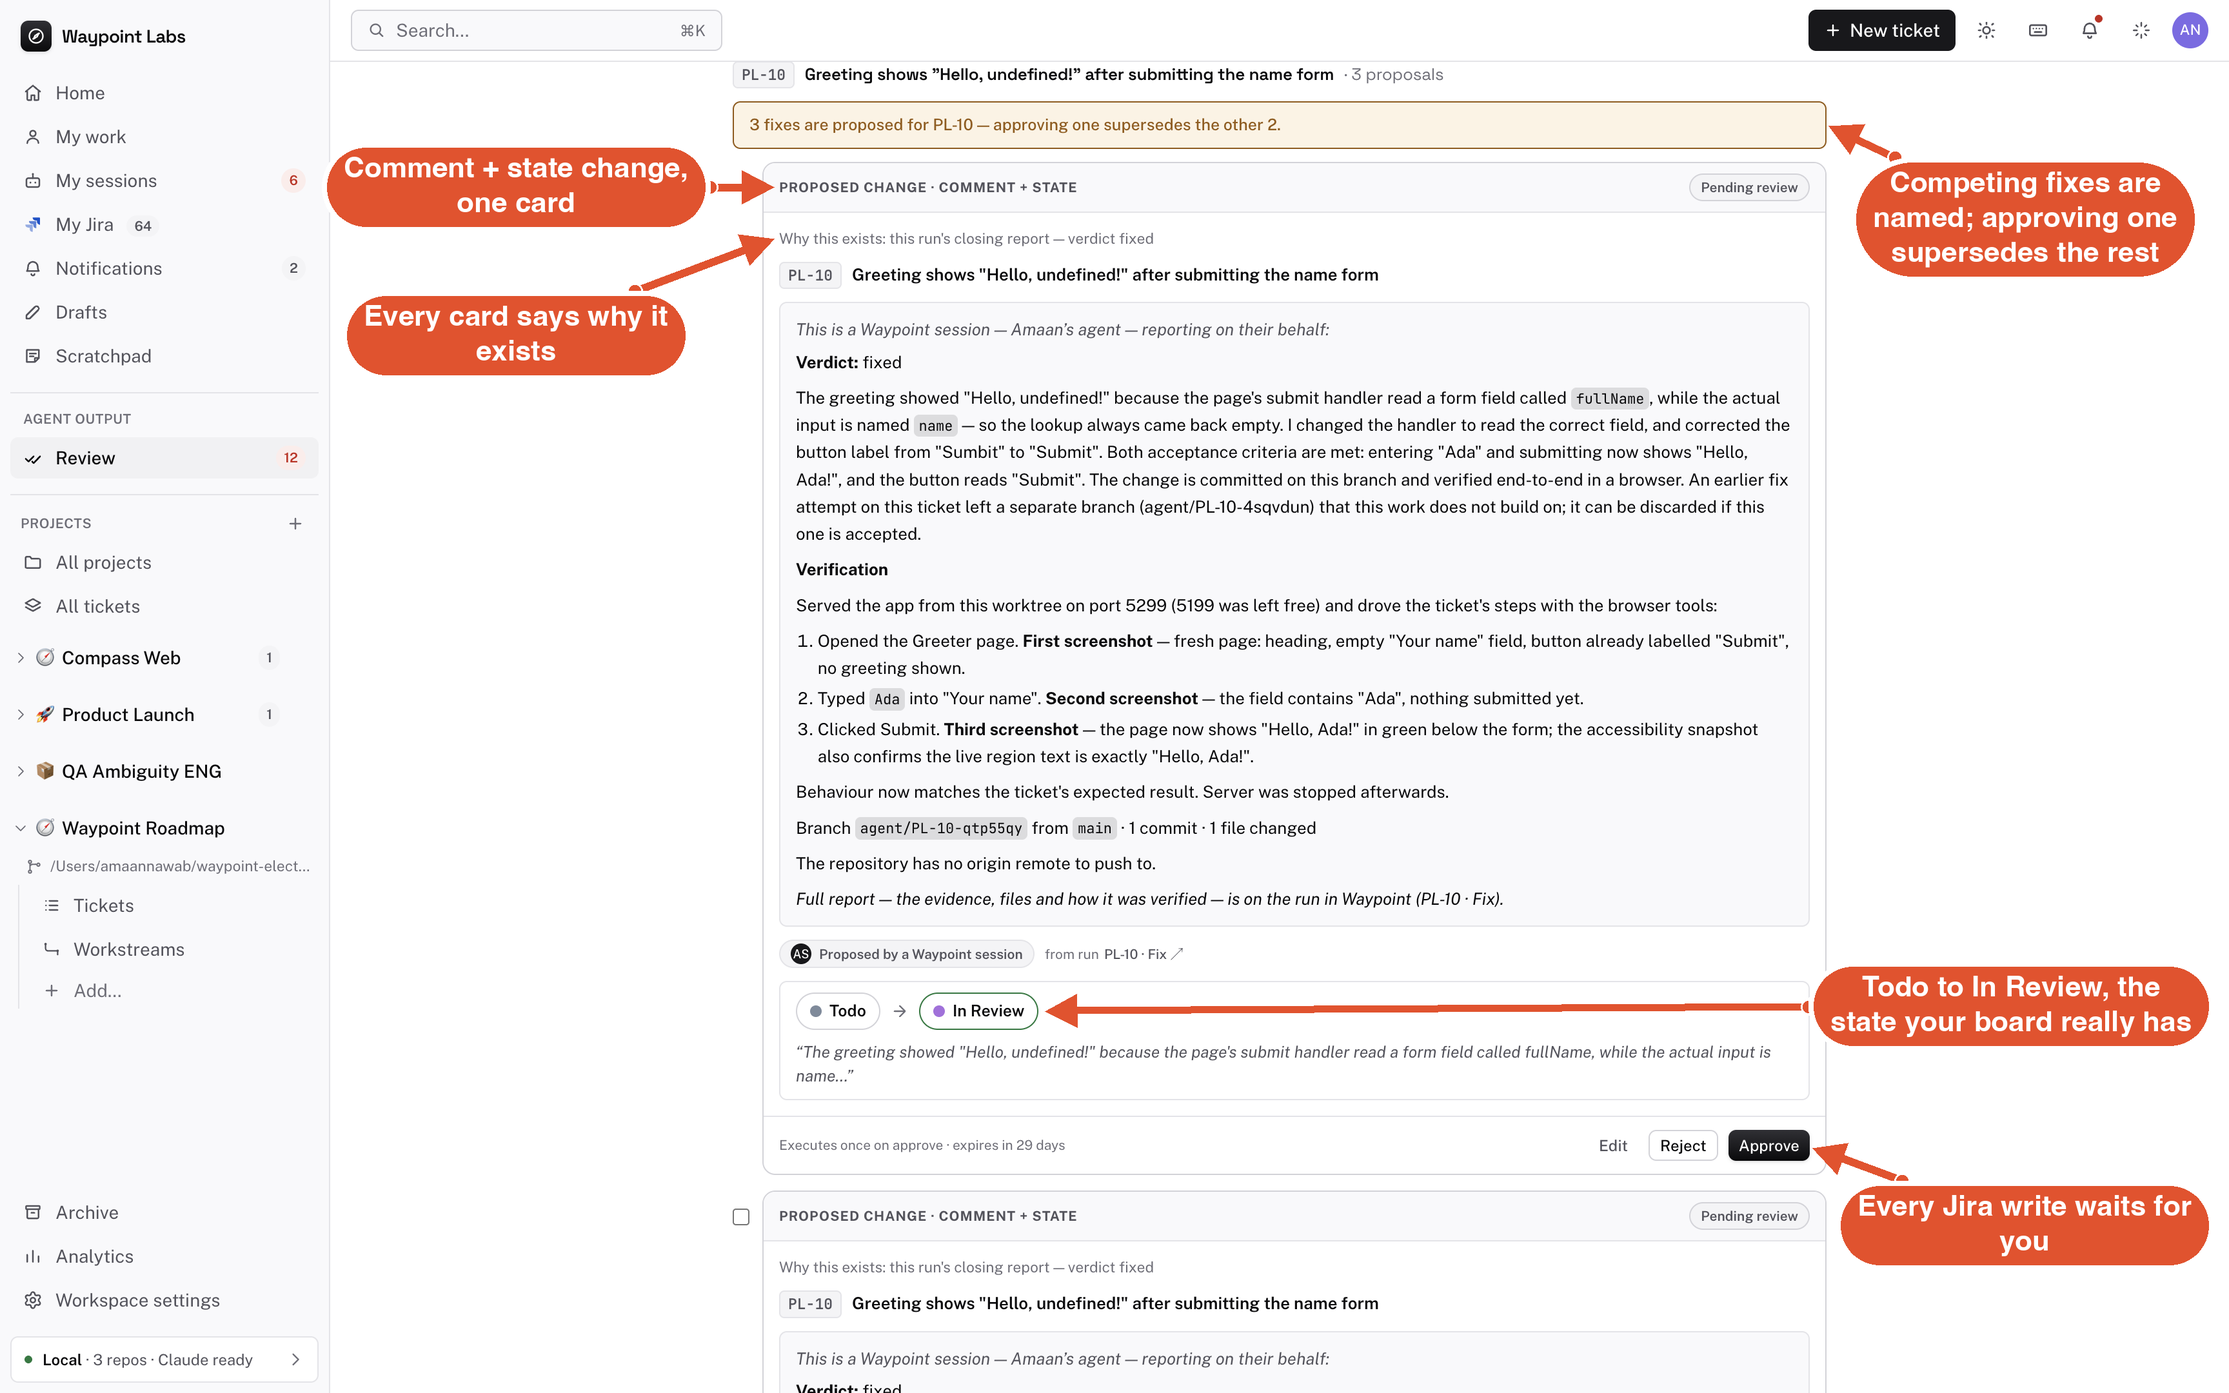
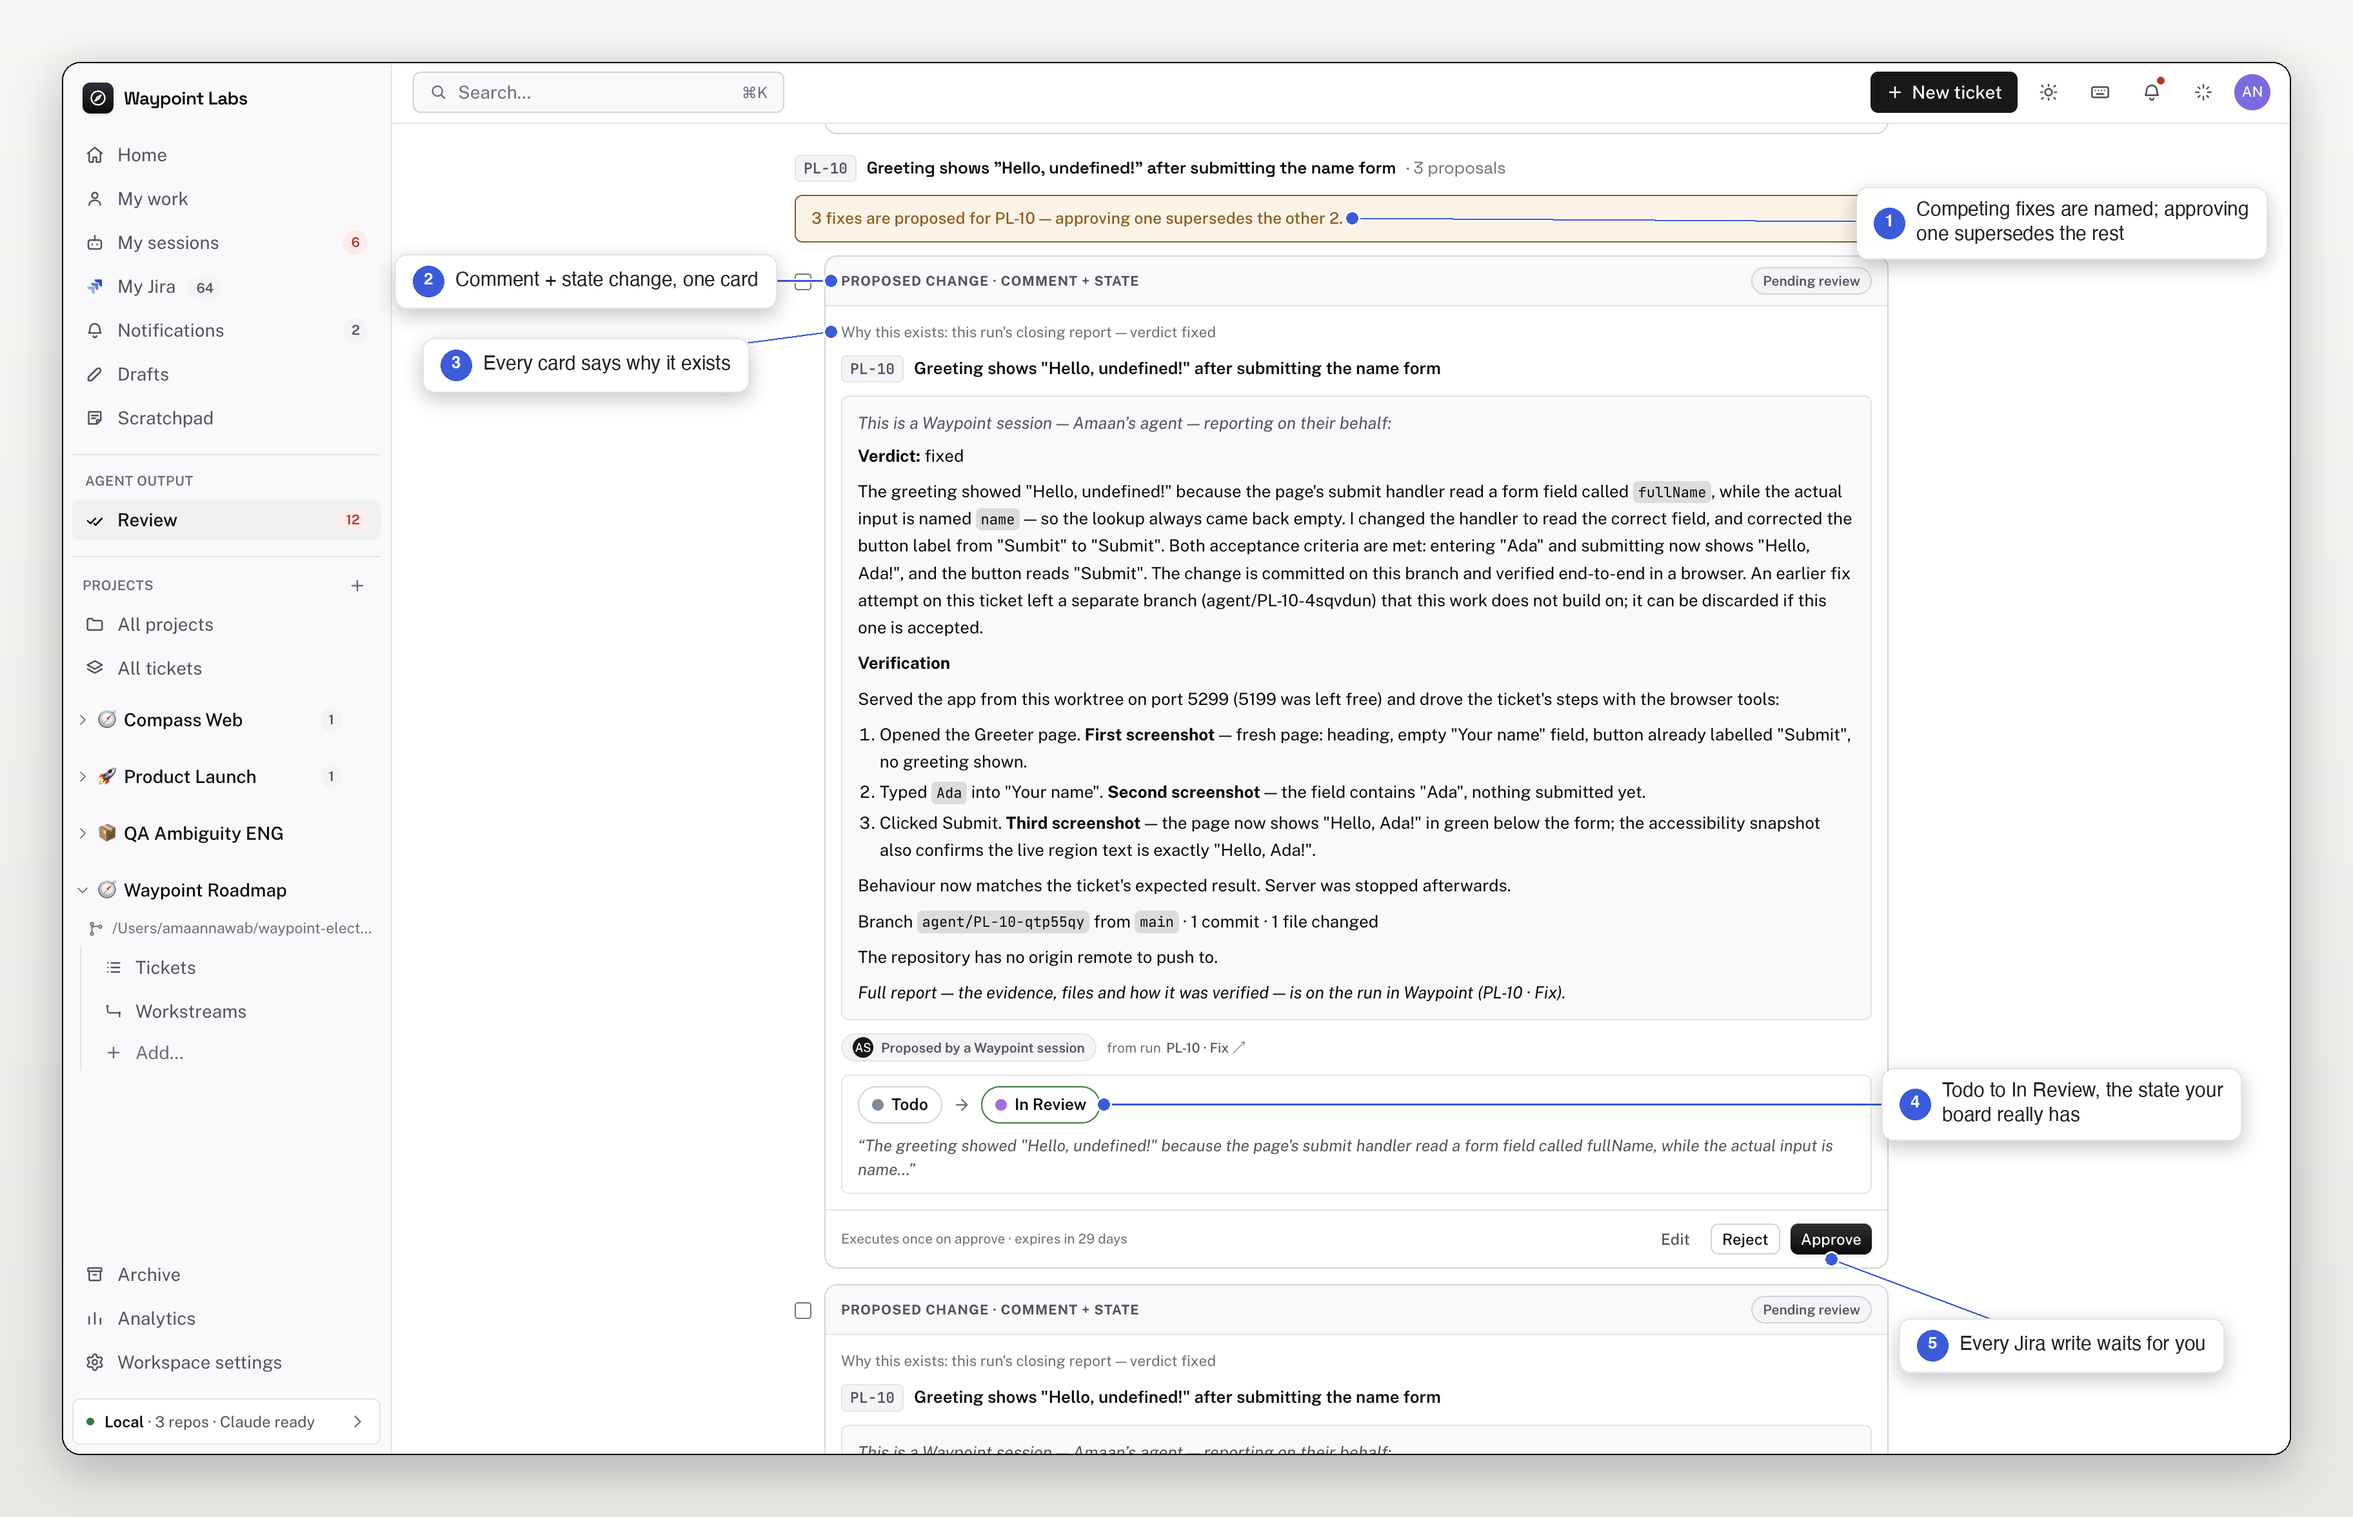
docs(readme): screenshots as product shots — numbered cards and thin leaders, not fat arrows
The first pass drew orange pills with thick arrowheads straight onto the
capture; it read as a markup, not a product page. Every shot is redone:

- the capture sits on a soft canvas with rounded corners, a hairline
  edge and a diffuse shadow, the way a product shot is presented;
- each callout is a numbered white card (one restrained blue accent for
  the badge; regular-weight text) with a 3 px leader ending in a small
  dot at the element's edge — never a ring or an arrowhead over the UI,
  never a line struck through text;
- cards sit in empty regions (the rail gutter, the right margin, the
  list under a drawer), placed and checked shot by shot.

Same eight shots, same copy. `annotate.py` carries the renderer and the
coordinates; re-run it on a fresh `<name>.raw.png` to redo any one.

Changed region(s): [[0.0, 0.0, 1.0, 1.0]]

diff --git a/docs/screenshots/annotate.py b/docs/screenshots/annotate.py
@@ -1,5 +1,6 @@
 #!/usr/bin/env python3
-"""Overlay README callouts (pill label + arrow) on raw app screenshots.
+"""Overlay README callouts on raw app screenshots: the shot on a soft canvas,
+numbered white cards with a thin leader to a ring on the element.
 
 Usage:  python3 docs/screenshots/annotate.py            # all shots
         python3 docs/screenshots/annotate.py review     # one shot
@@ -15,29 +16,36 @@ import math
 import sys
 from pathlib import Path
 
-from PIL import Image, ImageDraw, ImageFont
+from PIL import Image, ImageDraw, ImageFilter, ImageFont
 
 HERE = Path(__file__).resolve().parent
 
-ACCENT = (224, 83, 47)  # #E0532F
-WHITE = (255, 255, 255)
-TEXT = (255, 255, 255)
+# One restrained accent for every mark, a white card for every label. The
+# app itself is monochrome, so the annotation reads as a layer laid over a
+# product shot, not as part of the UI.
+ACCENT = (59, 91, 219)  # #3B5BDB
+INK = (31, 35, 40)
+CARD = (255, 255, 255)
+CARD_EDGE = (0, 0, 0, 28)
+CANVAS_TOP = (247, 247, 245)
+CANVAS_BOTTOM = (232, 232, 229)
 
-FONT_SIZE = 44
-LINE_GAP = 10
-PAD_X = 34
-PAD_Y = 20
-LINE_W = 12
-OUTLINE_W = 8
-HEAD_LEN = 50
-HEAD_HALF = 26
+PAD = 96  # canvas margin around the shot
+CORNER = 28
+FONT_SIZE = 30
+NUM_SIZE = 26
+LINE_GAP = 8
+PAD_X = 28
+PAD_Y = 22
+BADGE_R = 24
+DOT_R = 9
+LEAD_W = 3
 
 
-def load_font(size: int) -> ImageFont.FreeTypeFont:
+def load_font(size: int, bold: bool) -> ImageFont.FreeTypeFont:
     for path, index in (
-        ("/System/Library/Fonts/Helvetica.ttc", 1),
-        ("/System/Library/Fonts/Supplemental/Arial Bold.ttf", 0),
-        ("/System/Library/Fonts/Supplemental/Arial.ttf", 0),
+        ("/System/Library/Fonts/Helvetica.ttc", 1 if bold else 0),
+        ("/System/Library/Fonts/Supplemental/Arial Bold.ttf" if bold else "/System/Library/Fonts/Supplemental/Arial.ttf", 0),
     ):
         try:
             return ImageFont.truetype(path, size, index=index)
@@ -46,7 +54,8 @@ def load_font(size: int) -> ImageFont.FreeTypeFont:
     return ImageFont.load_default()
 
 
-FONT = load_font(FONT_SIZE)
+FONT = load_font(FONT_SIZE, bold=False)
+NUM_FONT = load_font(NUM_SIZE, bold=True)
 
 
 def wrap(text: str, max_w: int, draw: ImageDraw.ImageDraw) -> list[str]:
@@ -63,16 +72,35 @@ def wrap(text: str, max_w: int, draw: ImageDraw.ImageDraw) -> list[str]:
     return lines
 
 
-def pill_box(draw, cx, cy, lines):
+def framed(shot: Image.Image) -> Image.Image:
+    """The shot on a soft canvas: rounded corners, hairline edge, diffuse shadow."""
+    w, h = shot.size
+    W, H = w + 2 * PAD, h + 2 * PAD
+    canvas = Image.new("RGB", (W, H), CANVAS_TOP)
+    grad = Image.linear_gradient("L").resize((1, H))
+    top, bottom = Image.new("RGB", (W, H), CANVAS_TOP), Image.new("RGB", (W, H), CANVAS_BOTTOM)
+    canvas = Image.composite(bottom, top, grad.resize((W, H)))
+    shadow = Image.new("RGBA", (W, H), (0, 0, 0, 0))
+    ImageDraw.Draw(shadow).rounded_rectangle((PAD, PAD + 18, PAD + w, PAD + h + 18), CORNER, fill=(20, 22, 30, 70))
+    shadow = shadow.filter(ImageFilter.GaussianBlur(36))
+    canvas = Image.alpha_composite(canvas.convert("RGBA"), shadow)
+    mask = Image.new("L", (w, h), 0)
+    ImageDraw.Draw(mask).rounded_rectangle((0, 0, w - 1, h - 1), CORNER, fill=255)
+    canvas.paste(shot, (PAD, PAD), mask)
+    ImageDraw.Draw(canvas).rounded_rectangle((PAD, PAD, PAD + w - 1, PAD + h - 1), CORNER, outline=(0, 0, 0, 40), width=2)
+    return canvas
+
+
+def card_box(draw, cx, cy, lines):
     tw = max(draw.textlength(l, font=FONT) for l in lines)
     lh = FONT_SIZE + LINE_GAP
     th = lh * len(lines) - LINE_GAP
-    w, h = tw + 2 * PAD_X, th + 2 * PAD_Y
+    w = tw + 2 * PAD_X + 2 * BADGE_R + 18
+    h = max(th + 2 * PAD_Y, 2 * BADGE_R + 2 * PAD_Y - 8)
     return (cx - w / 2, cy - h / 2, cx + w / 2, cy + h / 2), lh
 
 
 def edge_point(box, target):
-    """Point on the pill's boundary in the direction of `target`."""
     x0, y0, x1, y1 = box
     cx, cy = (x0 + x1) / 2, (y0 + y1) / 2
     dx, dy = target[0] - cx, target[1] - cy
@@ -85,99 +113,92 @@ def edge_point(box, target):
     return cx + dx * t, cy + dy * t
 
 
-def arrow(draw, p0, p1):
+def leader(draw, p0, p1):
+    """A thin line from the card to a small dot at the element's edge; no arrowhead."""
     (x0, y0), (x1, y1) = p0, p1
-    ang = math.atan2(y1 - y0, x1 - x0)
-    # Shorten the shaft so it ends inside the head.
-    sx, sy = x1 - HEAD_LEN * 0.7 * math.cos(ang), y1 - HEAD_LEN * 0.7 * math.sin(ang)
-    head = [
-        (x1, y1),
-        (
-            x1 - HEAD_LEN * math.cos(ang) + HEAD_HALF * math.sin(ang),
-            y1 - HEAD_LEN * math.sin(ang) - HEAD_HALF * math.cos(ang),
-        ),
-        (
-            x1 - HEAD_LEN * math.cos(ang) - HEAD_HALF * math.sin(ang),
-            y1 - HEAD_LEN * math.sin(ang) + HEAD_HALF * math.cos(ang),
-        ),
-    ]
-    # White halo first, accent on top.
-    draw.line([(x0, y0), (sx, sy)], fill=WHITE, width=LINE_W + 2 * OUTLINE_W)
-    draw.polygon(head, fill=WHITE, outline=WHITE, width=OUTLINE_W)
-    draw.line([(x0, y0), (sx, sy)], fill=ACCENT, width=LINE_W)
-    draw.polygon(head, fill=ACCENT)
-    draw.ellipse(
-        (x0 - LINE_W, y0 - LINE_W, x0 + LINE_W, y0 + LINE_W), fill=ACCENT, outline=WHITE, width=3
-    )
+    draw.line([(x0, y0), (x1, y1)], fill=(255, 255, 255, 230), width=LEAD_W + 4)
+    draw.line([(x0, y0), (x1, y1)], fill=ACCENT + (255,), width=LEAD_W)
+    r = DOT_R
+    draw.ellipse((x1 - r - 3, y1 - r - 3, x1 + r + 3, y1 + r + 3), fill=(255, 255, 255, 240))
+    draw.ellipse((x1 - r, y1 - r, x1 + r, y1 + r), fill=ACCENT + (255,))
 
 
-def callout(draw, text, at, to, max_w=560):
+def callout(img: Image.Image, n: int, text: str, at, to, max_w=520):
+    layer = Image.new("RGBA", img.size, (0, 0, 0, 0))
+    draw = ImageDraw.Draw(layer)
     lines = wrap(text, max_w, draw)
-    box, lh = pill_box(draw, at[0], at[1], lines)
-    # Keep the pill inside the frame (margins are narrow on retina shots).
-    w_img, h_img = draw.im.size
+    box, lh = card_box(draw, at[0], at[1], lines)
+    w_img, h_img = img.size
     dx = min(0, w_img - 24 - box[2]) + max(0, 24 - box[0])
     dy = min(0, h_img - 24 - box[3]) + max(0, 24 - box[1])
     box = (box[0] + dx, box[1] + dy, box[2] + dx, box[3] + dy)
-    start = edge_point(box, to)
-    arrow(draw, start, to)
-    r = (box[3] - box[1]) / 2
-    draw.rounded_rectangle(box, radius=r, fill=ACCENT, outline=WHITE, width=OUTLINE_W)
-    y = box[1] + PAD_Y
+    leader(draw, edge_point(box, to), to)
+    # Card shadow, then the card, then the numbered badge and the text.
+    shadow = Image.new("RGBA", img.size, (0, 0, 0, 0))
+    ImageDraw.Draw(shadow).rounded_rectangle((box[0], box[1] + 10, box[2], box[3] + 10), 18, fill=(20, 22, 30, 60))
+    layer = Image.alpha_composite(layer, shadow.filter(ImageFilter.GaussianBlur(14)))
+    draw = ImageDraw.Draw(layer)
+    draw.rounded_rectangle(box, radius=18, fill=CARD + (250,), outline=CARD_EDGE, width=2)
+    bx, by = box[0] + PAD_X, (box[1] + box[3]) / 2
+    draw.ellipse((bx, by - BADGE_R, bx + 2 * BADGE_R, by + BADGE_R), fill=ACCENT + (255,))
+    num = str(n)
+    nw = draw.textlength(num, font=NUM_FONT)
+    draw.text((bx + BADGE_R - nw / 2, by - NUM_SIZE / 2 - 3), num, font=NUM_FONT, fill=(255, 255, 255, 255))
+    x = bx + 2 * BADGE_R + 18
+    y = (box[1] + box[3]) / 2 - (lh * len(lines) - LINE_GAP) / 2 - 2
     for line in lines:
-        tw = draw.textlength(line, font=FONT)
-        x = (box[0] + box[2]) / 2 - tw / 2
-        draw.text((x, y), line, font=FONT, fill=TEXT)
+        draw.text((x, y), line, font=FONT, fill=INK + (255,))
         y += lh
+    return Image.alpha_composite(img, layer)
 
 
 # name -> list of (label, pill centre, arrow tip[, max text width]). Raw pixel space.
 SHOTS: dict[str, list[tuple]] = {
     "hero-session": [
-        ("The brief: what the agent was told first", (2500, 600), (1400, 410)),
-        ("Verdict chip: fixed", (2450, 200), (1560, 200)),
-        ("Every tool call, as a row", (2450, 890), (1560, 890)),
-        ("It walks the repro steps and screenshots each one", (2500, 1780), (1985, 1830)),
+        ("Verdict chip: fixed", (2300, 200), (1565, 200)),
+        ("The brief: what the agent was told first", (2560, 560), (2010, 403)),
+        ("Every tool call, as a row", (2400, 890), (1560, 890)),
+        ("It walks the repro steps and screenshots each one", (2500, 1760), (1985, 1830)),
         ("Message any run, any status. Never locked.", (2750, 1948), (1995, 1948)),
-        ("Read-only or may edit files: your call", (2450, 2118), (1560, 2050)),
+        ("Read-only or may edit files: your call", (1250, 2118), (1592, 2020)),
     ],
     "review": [
-        ("Comment + state change, one card", (800, 290), (1200, 290)),
-        ("Every card says why it exists", (800, 520), (1200, 370)),
-        ("Competing fixes are named; approving one supersedes the rest", (3140, 340), (2835, 195)),
-        ("Todo to In Review, the state your board really has", (3140, 1560), (1620, 1568)),
-        ("Every Jira write waits for you", (3140, 1900), (2810, 1780)),
+        ("Competing fixes are named; approving one supersedes the rest", (3100, 250), (2000, 242)),
+        ("Comment + state change, one card", (812, 340), (1192, 339)),
+        ("Every card says why it exists", (812, 470), (1192, 418)),
+        ("Todo to In Review, the state your board really has", (3100, 1616), (1615, 1616)),
+        ("Every Jira write waits for you", (3100, 1990), (2743, 1856)),
     ],
     "my-jira": [
-        ("Core fields on top", (2850, 640), (2950, 432)),
-        ("Investigate or Fix, straight from the issue", (1500, 985), (2760, 1082)),
-        ("Every session on this issue, with its status", (1500, 1280), (2130, 1280)),
-        ("The session's report, posted as a PM-grade comment", (1420, 1900), (2120, 1900)),
+        ("Core fields on top", (1600, 375), (2068, 375)),
+        ("Investigate or Fix, straight from the issue", (1600, 1000), (2758, 1073)),
+        ("Every session on this issue, with its status", (1600, 1300), (2128, 1187)),
+        ("The session's report, posted as a PM-grade comment", (1600, 1894), (2118, 1894)),
     ],
     "copilot": [
-        ("Answers from your real Jira: dashboards, JQL, issues", (2120, 840), (2590, 745)),
-        ("Shows its work: the JQL it ran", (1900, 1730), (2620, 1900)),
+        ("Answers from your real Jira: dashboards, JQL, issues", (1900, 1000), (2610, 1000)),
+        ("Shows its work: the JQL it ran", (1900, 1950), (2612, 1950)),
     ],
     "brief-preview": [
-        ("Read and edit the brief before anything runs", (2850, 810), (2325, 865)),
-        ("Fresh worktree from the base branch you pick", (600, 480), (1125, 525)),
-        ("Plan mode reads and reports, changes nothing", (600, 760), (1125, 592)),
-        ("Nothing starts until you press this", (2850, 1385), (2325, 1248)),
+        ("Fresh worktree from the base branch you pick", (560, 526), (1094, 526)),
+        ("Plan mode reads and reports, changes nothing", (560, 690), (1094, 590)),
+        ("Read and edit the brief before anything runs", (2900, 930), (2330, 930)),
+        ("Nothing starts until you press this", (2900, 1246), (2332, 1246)),
     ],
     "this-machine": [
-        ("Honest about what leaves your laptop", (3080, 380), (2690, 415)),
-        ("Prompts go to Anthropic on your own subscription. Nothing else.", (3080, 860), (2650, 812)),
-        ("Real Claude Code detection, with a real 'not found' state", (900, 1180), (1310, 1260)),
-        ("No cloud backend: the engine runs here", (3080, 1560), (2690, 1586)),
+        ("Honest about what leaves your laptop", (3080, 382), (2690, 382)),
+        ("Prompts go to Anthropic on your own subscription. Nothing else.", (3080, 813), (2690, 813)),
+        ("Real Claude Code detection, with a real 'not found' state", (760, 1260), (1274, 1260)),
+        ("No cloud backend: the engine runs here", (3080, 1586), (2690, 1586)),
     ],
     "verdicts": [
-        ("Not a bug: proposes closing the issue, never Done", (2380, 145), (1665, 200), 1100),
-        ("A verdict in one word", (2330, 463), (1520, 463)),
-        ("Summary for the board, details stay on the run", (2200, 897), (1385, 897), 1100),
+        ("Not a bug: proposes closing the issue, never Done", (2400, 200), (1662, 200), 1100),
+        ("A verdict in one word", (2100, 578), (1512, 578)),
+        ("Summary for the board, details stay on the run", (2200, 1017), (1382, 1017), 1100),
     ],
     "tracker": [
-        ("Link a repo; sessions know where the code lives", (1900, 138), (1275, 138)),
-        ("The native tracker is still here: list, board, calendar, sheet, Gantt", (1660, 335), (1275, 242), 760),
+        ("Link a repo; sessions know where the code lives", (1950, 138), (1275, 138)),
+        ("The native tracker is still here: list, board, calendar, sheet, Gantt", (2350, 238), (1290, 238), 760),
     ],
 }
 
@@ -185,11 +206,11 @@ SHOTS: dict[str, list[tuple]] = {
 def render(name: str) -> Path:
     src = HERE / f"{name}.raw.png"
     out = HERE / f"{name}.png"
-    img = Image.open(src).convert("RGB")
-    draw = ImageDraw.Draw(img)
-    for label, at, to, *rest in SHOTS[name]:
-        callout(draw, label, at, to, *rest)
-    img.save(out, optimize=True)
+    img = framed(Image.open(src).convert("RGB"))
+    for n, (label, at, to, *rest) in enumerate(SHOTS[name], start=1):
+        shift = lambda p: (p[0] + PAD, p[1] + PAD)
+        img = callout(img, n, label, shift(at), shift(to), *rest)
+    img.convert("RGB").save(out, optimize=True)
     return out
 
 
